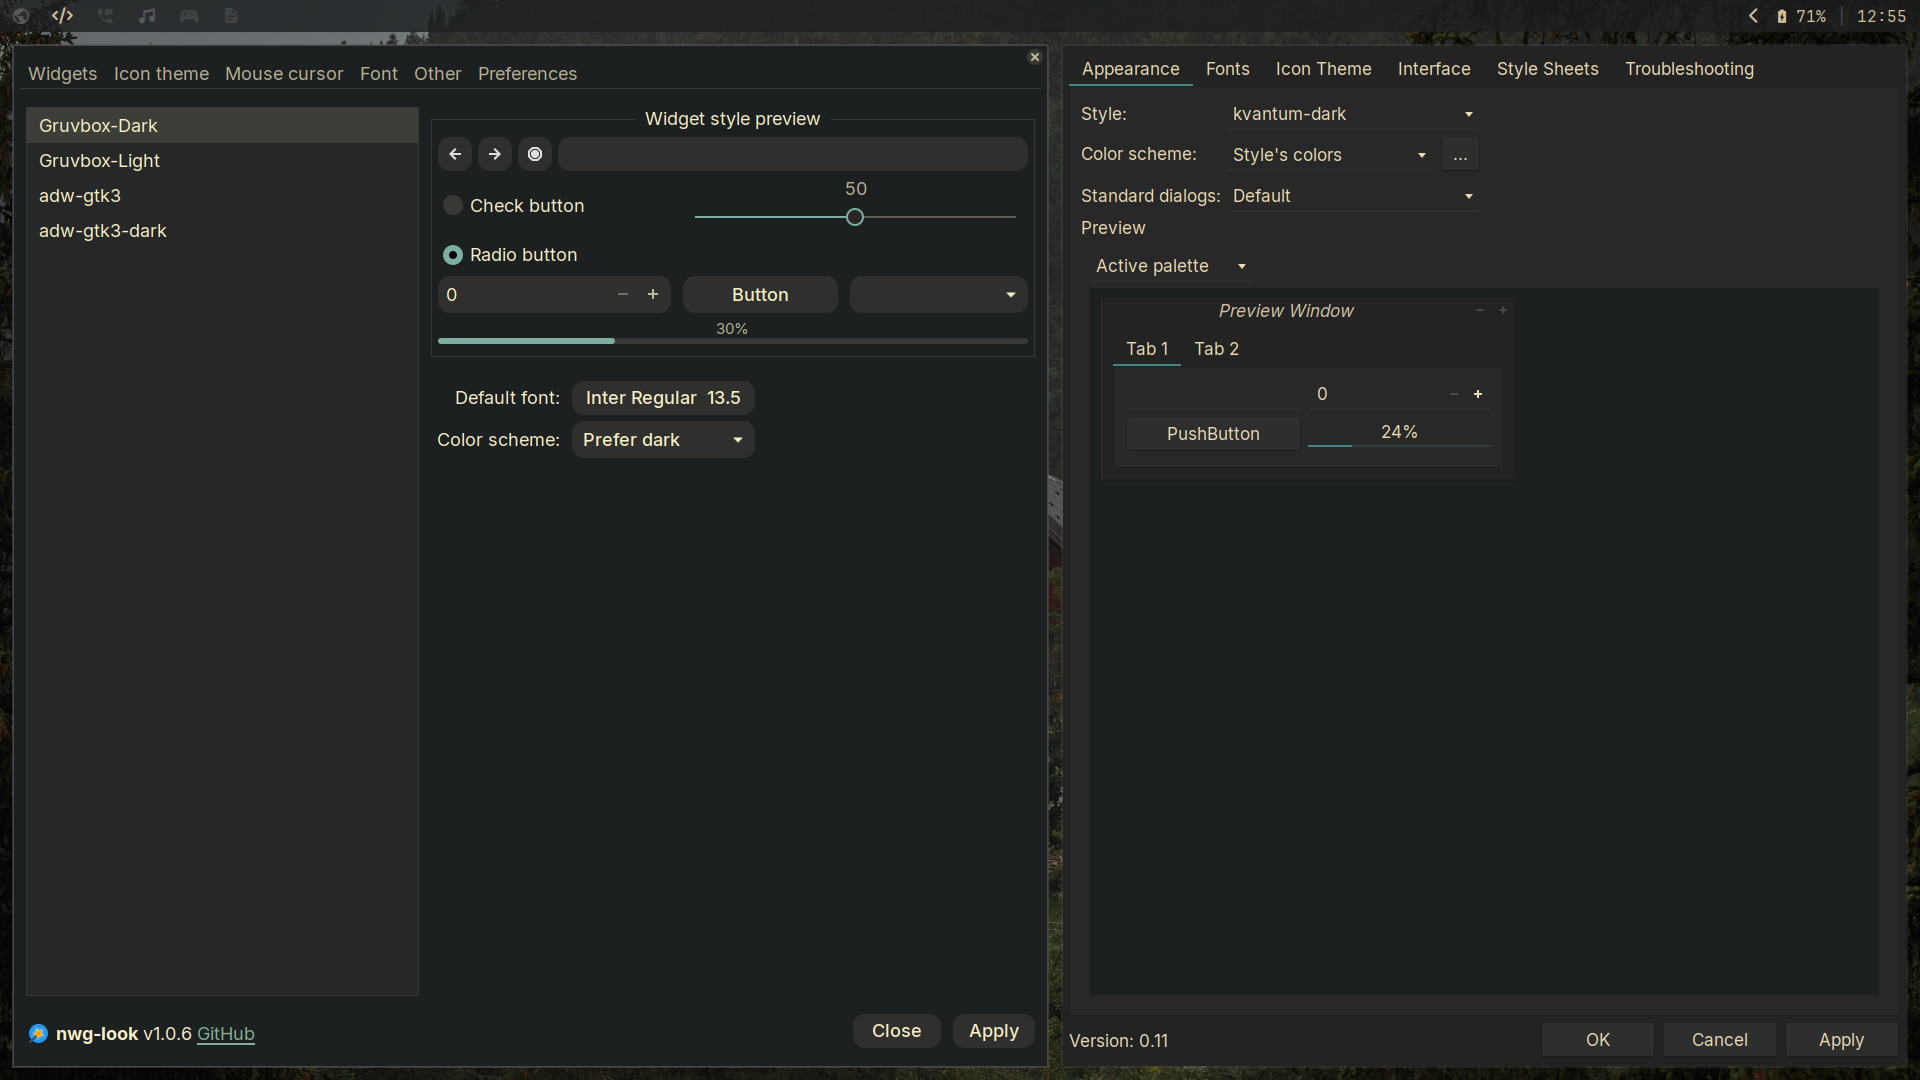
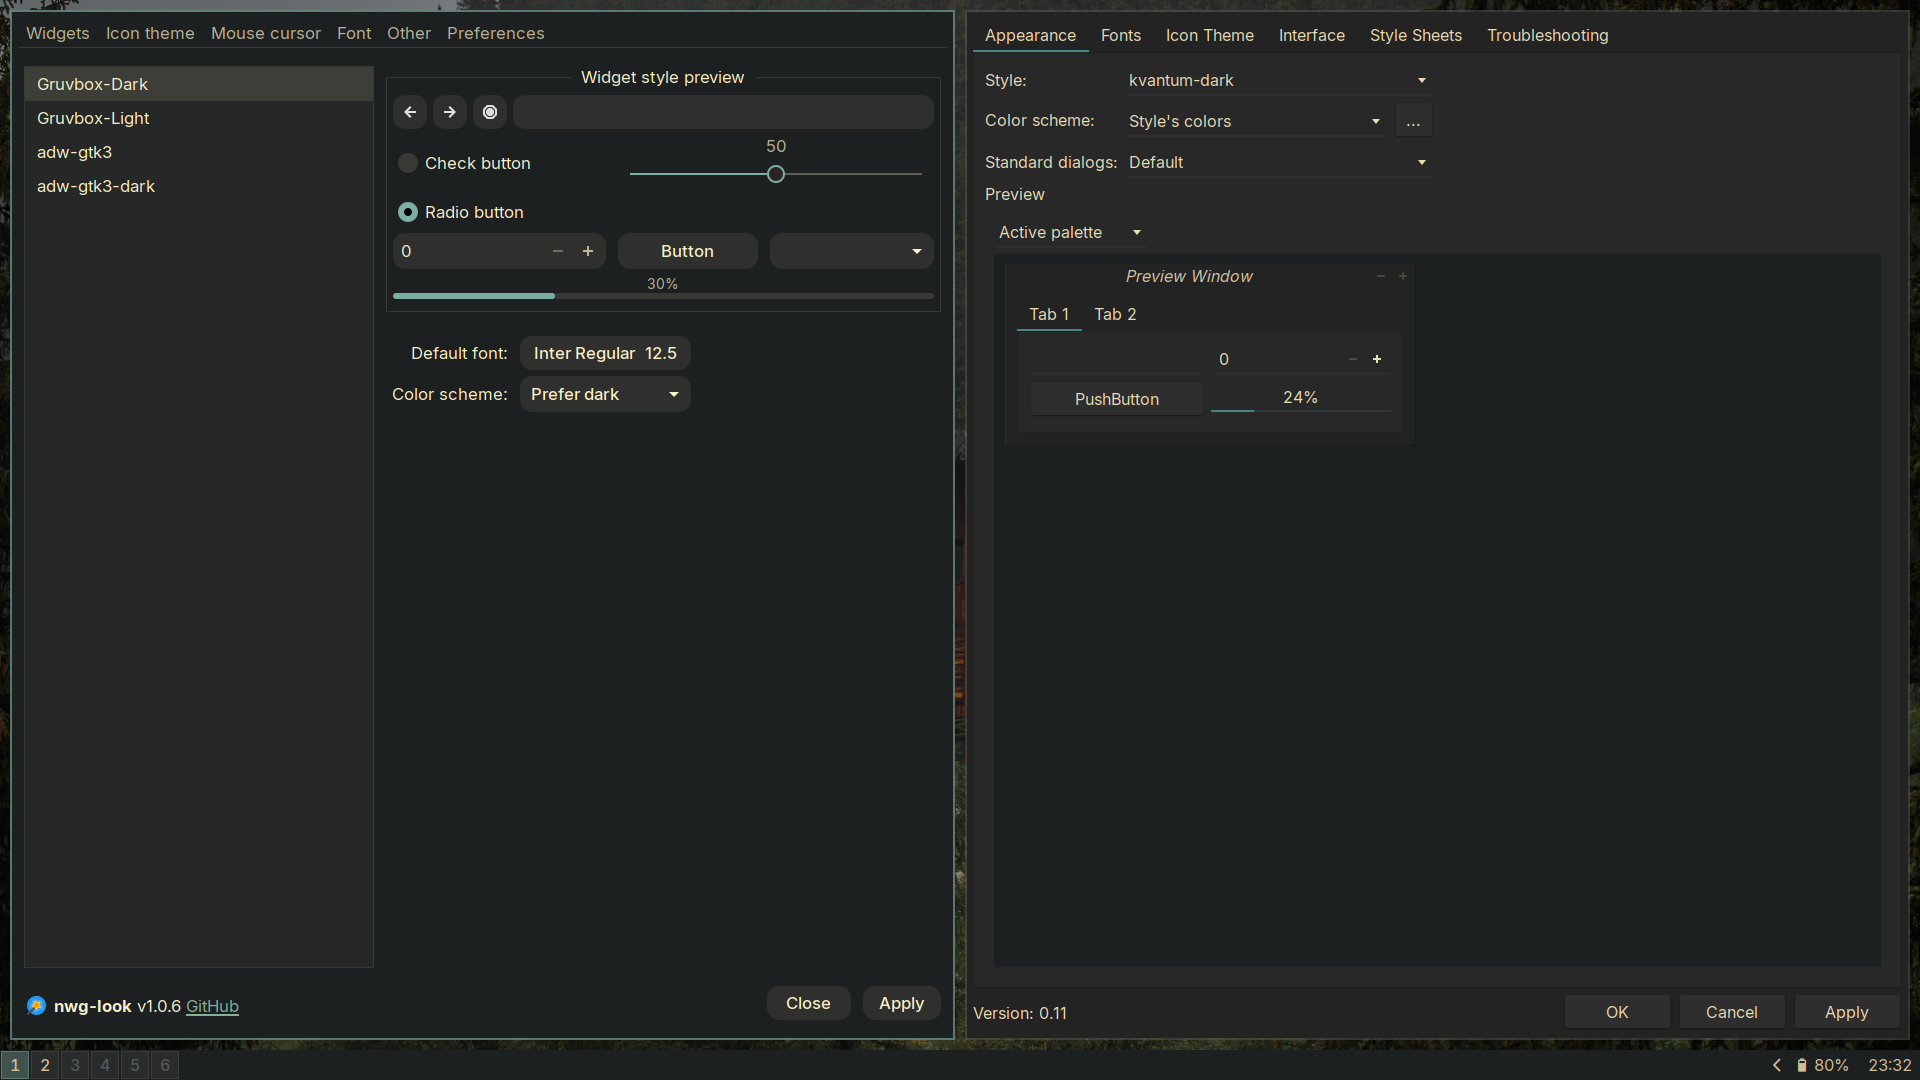
Updated README.md

diff --git a/README.md b/README.md
@@ -50,10 +50,10 @@ Extending or overriding modules is straightforward thanks to Nix's declarative n
 
 ## Preview
 
-| Tiled Layout | Wallpaper & Aesthetic |
+| Tiled Layout | Layout |
 |---|---|
-| ![Tiled windows](./img/tiled.png) | ![Background](./img/background.png) |
+| ![Resource usage](./img/stats.png) | ![Background](./img/background.png) |
 
-| App Launcher | GUI Applications |
+| Background Wallpaper | GUI Applications |
 |---|---|
-| ![Rofi launcher](./img/rofi.png) | ![GUI](./img/gui.png) |
+| ![Background / Wallpaper](./img/bg.png) | ![GUI](./img/gui.png) |
